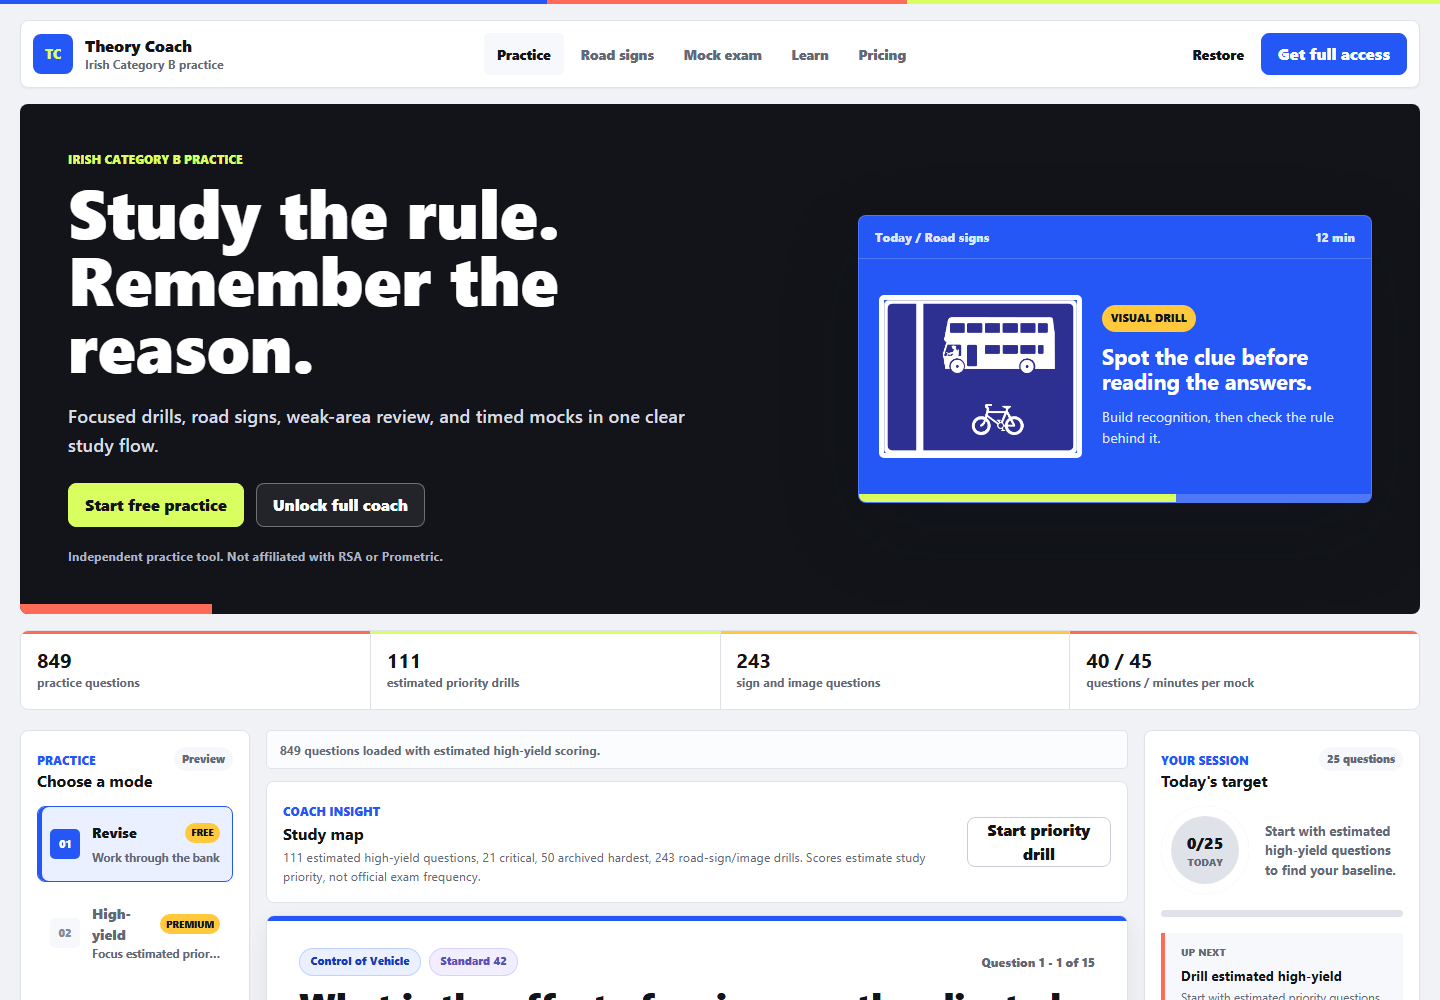
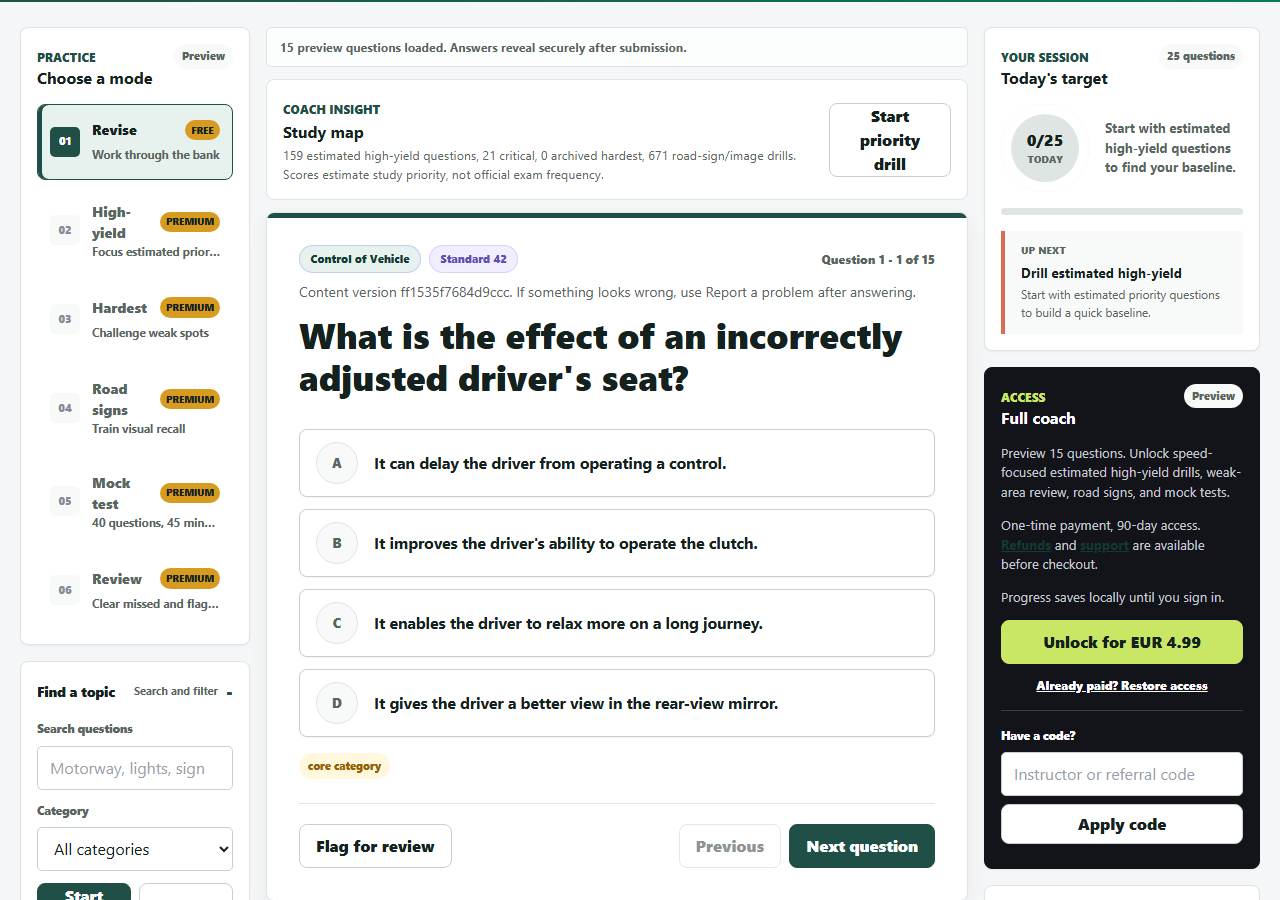
Present project as a public portfolio case study

diff --git a/README.md b/README.md
@@ -1,133 +1,176 @@
 # Irish Theory Test Coach
 
-A mobile-first Category B theory-test practice product for Irish learner drivers. It combines a focused question experience, estimated priority drills, road-sign practice, timed mock exams, weak-area review, secure paid access, and an admin content workflow.
+I built Irish Theory Test Coach as a commercial-grade learning product for Irish Category B learner drivers. It started as a question recovery project and grew into a complete study platform with protected premium content, timed mock exams, progress coaching, passwordless accounts, payments, instructor codes, and an operator dashboard.
 
-**Independent practice tool. Not affiliated with RSA or Prometric.** The project does not promise a guaranteed pass or claim official exam frequency.
+This repository is public as a portfolio case study. It shows how I approach product design, backend security, payment reliability, content operations, accessibility, SEO, and production readiness in one working system.
 
-## Live Product
+> **Independent practice tool. Not affiliated with RSA or Prometric.** The product does not guarantee a pass or claim to know official exam frequency.
 
-- **App:** [irish-theory-test-coach.vercel.app](https://irish-theory-test-coach.vercel.app)
-- **Pricing:** [View learner and instructor plans](https://irish-theory-test-coach.vercel.app/pricing)
-- **Learning hub:** [Browse study guides](https://irish-theory-test-coach.vercel.app/learn)
-- **Admin:** [Protected admin workspace](https://irish-theory-test-coach.vercel.app/admin)
-- **Sitemap:** [View the production sitemap](https://irish-theory-test-coach.vercel.app/sitemap.xml)
+## Try It
 
-![Irish Theory Test Coach desktop interface](docs/images/portfolio-desktop.png)
+- **Live product preview:** [Open Irish Theory Test Coach](https://irish-theory-test-coach-assembler-fourier-job-work.vercel.app)
+- **Learner workspace:** [Start the 15-question preview](https://irish-theory-test-coach-assembler-fourier-job-work.vercel.app/app)
+- **Pricing:** [View learner and instructor plans](https://irish-theory-test-coach-assembler-fourier-job-work.vercel.app/pricing)
+- **Learning hub:** [Browse the study guides](https://irish-theory-test-coach-assembler-fourier-job-work.vercel.app/learn)
 
-## Product Highlights
+The custom `.ie` domain is still completing registry activation. The Vercel Preview is the current review environment and intentionally uses Stripe sandbox payments.
 
-- Published question count, estimated-priority count, sign/image count, preview limit, mock settings, access duration, and active learner price are generated from the runtime product summary during build.
-- Six study modes: revise, estimated priority, hardest, road signs, mock test, and review.
-- 40-question, 45-minute mock flow with a 35-answer practice pass mark.
-- Daily target, missed-question cleanup, category accuracy, flags, and recommended next actions.
-- Mobile-first quiz UI with accessible answer states and coaching feedback.
-- Free 15-question preview and a EUR 4.99 one-time Full Study Pass with 90-day access.
-- Stripe Checkout, server-side entitlement verification, webhook endpoint, and restore-access flow.
-- Neon Postgres persistence for users, purchases, entitlements, sessions, progress, analytics, referrals, and content review.
-- Server-authorized admin dashboard for users, entitlements, revenue, referrals, questions, and generated drafts.
-- Privacy-safe first-party analytics, installable PWA support, offline shell caching, and 33 indexable public URLs.
+![Current Irish Theory Test Coach learner workspace](docs/images/portfolio-desktop.png)
 
 <p align="center">
-  <img src="docs/images/portfolio-mobile.png" width="390" alt="Irish Theory Test Coach mobile question interface">
+  <img src="docs/images/portfolio-mobile.png" width="390" alt="Current Irish Theory Test Coach mobile question experience">
 </p>
+
+## What I Built
+
+The learner experience includes:
+
+- 1,277 structured practice questions across the Category B topic bank
+- a 15-question free preview that does not expose premium answer keys
+- estimated-priority, hardest, road-sign, review, and revision modes
+- server-generated 40-question mock exams with a 45-minute timer
+- answer coaching, explanations, memory tips, flags, and missed-question review
+- category accuracy, daily targets, study streaks, and recommended next actions
+- passwordless account restoration and cross-device progress
+- installable PWA support and an offline free-preview shell
+
+The commercial and operator side includes:
+
+- Stripe Checkout for learner passes and instructor code packs
+- signed, idempotent Stripe webhook processing
+- refund, dispute, and repeat-purchase entitlement handling
+- cryptographically generated single-use instructor codes
+- server-authorized roles for owners, admins, editors, and support staff
+- users, purchases, entitlements, content QA, analytics, support, and audit-log views
+- first-party privacy-safe funnel analytics
+- static SEO pages, structured data, sitemap generation, and internal-link checks
+
+## The Engineering Work I Am Most Proud Of
+
+### Premium content is actually protected
+
+The browser receives only the free preview before authentication. Premium sessions are selected on the server, correct answers are withheld until submission, mock scoring is calculated server-side, and premium media routes require active access.
+
+### Payments survive real failure cases
+
+Checkout amounts and plan selection are server-authoritative. Webhook events are signature-verified and idempotent. The payment ledger represents completed, failed, expired, refunded, disputed, and replayed events. A won dispute restores only the entitlement revoked by that same dispute and preserves the learner's remaining access time.
+
+### Content quality is an operational workflow
+
+The content pipeline detects exact and near duplicates, answer-set variants, conflicting answers, category aliases, malformed options, unsafe HTML, weak explanations, and missing image descriptions. Editorial decisions are versioned and auditable instead of silently changing factual answers.
+
+### Build output cannot quietly drift
+
+Question counts, pricing, access duration, content versions, schema versions, and release metadata are generated from authoritative sources. Stale-build tests fail when marketing copy, public data, pricing, sitemap entries, or generated files disagree.
 
 ## Architecture
 
-```text
-public/                 Static product UI, PWA, legal pages, and SEO pages
-api/[...route].js       Consolidated Vercel Function router
-server/api/             Checkout, auth, progress, analytics, AI, and admin handlers
-lib/                    Database, auth, entitlement, referral, and environment helpers
-shared/                 Central pricing configuration
-database/schema.sql     Neon Postgres schema
-data/                   Question dataset, study reports, and local image assets
-scripts/                Build, QA, SEO, screenshot, migration, and recovery tools
-docs/                   Product, security, operations, content, and launch documentation
+```mermaid
+flowchart LR
+    Browser["Static learner app"] --> API["Vercel Functions"]
+    API --> Neon["Neon Postgres"]
+    API --> PrivateBank["Private question adapter"]
+    API --> Stripe["Stripe Checkout and webhooks"]
+    Browser --> Preview["Public 15-question package"]
+    Admin["Protected admin workspace"] --> API
+    Stripe --> Webhook["Raw-body webhook endpoint"]
+    Webhook --> Neon
 ```
 
-The current MVP deliberately uses static HTML, CSS, and JavaScript with Vercel serverless APIs. It avoids a framework migration so the app remains inexpensive to host and easy to inspect.
+```text
+public/                 Static learner app, marketing pages, PWA, and admin UI
+api/                    Vercel entrypoints and consolidated API router
+server/api/             Auth, study, payment, analytics, support, and admin handlers
+lib/                    Database, security, entitlement, content, and audit helpers
+shared/                 Authoritative pricing, product, business, and growth config
+database/               Idempotent schema and numbered migrations
+data/                   Owned question source data and media
+scripts/                Build, validation, QA, migration, evidence, and release tooling
+docs/                   Security, operations, content, design, SEO, and launch guides
+```
+
+I kept the product in modular vanilla JavaScript instead of migrating frameworks. That kept the runtime small, made the static marketing surface fast, and forced a clear boundary between browser code and privileged server behavior.
 
 ## Technology
 
-- HTML5, modern CSS, and vanilla JavaScript
-- Vercel static hosting and Functions
-- Neon Postgres via `pg`
-- Stripe Checkout and signed webhook handling
-- Secure HTTP-only magic-link sessions
-- Service worker and Web App Manifest
-- JSON-LD, sitemap, canonical metadata, and static SEO pages
-- Node.js and Python validation/build tooling
+| Area | Implementation |
+| --- | --- |
+| Frontend | Semantic HTML, modern CSS, modular vanilla JavaScript |
+| Hosting | Vercel static output and serverless Functions |
+| Database | Neon Postgres with `pg` and transactional migrations |
+| Payments | Stripe Checkout, signed webhooks, internal payment ledger |
+| Authentication | Single-use magic links and secure HTTP-only sessions |
+| Offline | Service worker, Web App Manifest, versioned preview cache |
+| Quality | Node and Python validation, browser tests, axe, visual snapshots |
+| SEO | Static HTML, canonical metadata, JSON-LD, sitemap, internal links |
 
-## Local Development
+## Verification
 
-Requirements: Node.js, npm, and Python 3.
+The current commercial Preview was tested against the exact deployed Git commit.
+
+| Check | Current result |
+| --- | --- |
+| Published dataset | 1,277 questions validated |
+| Public content exposure | 15 preview questions, no answer key |
+| Stripe sandbox matrix | 18 of 18 scenarios passed |
+| Payment reconciliation | 0 unresolved findings |
+| Accessibility | 7 states, 0 critical axe violations |
+| Visual regression | 15 deterministic mobile, tablet, and desktop screenshots |
+| Post-deploy smoke test | 11 of 11 routes and behaviors passed |
+| Dependency audit | 0 known vulnerabilities at the latest audit |
+
+Run the complete local quality gate with:
 
 ```powershell
-npm install
+npm ci
+npm run qa
+```
+
+That command validates the dataset, generated output, protected-content boundary, payment and webhook behavior, account policies, role authorization, security controls, PWA, SEO, accessibility, end-to-end flows, and visual baselines.
+
+## Run It Locally
+
+Requirements:
+
+- Node.js 22
+- npm
+- Python 3
+
+```powershell
+git clone https://github.com/Assembler-Fourier/irish-theory-test-coach.git
+cd irish-theory-test-coach
+npm ci
 npm run build
 npm run dev
 ```
 
-Open [http://localhost:5173/public/](http://localhost:5173/public/).
+Open `http://localhost:5173/public/` for the static product. Use `npx vercel dev` when testing serverless APIs locally.
 
-Copy `.env.example` to `.env.local` for local serverless work and replace placeholders locally. Never commit `.env.local`, Stripe keys, Neon credentials, webhook secrets, or email-provider keys.
+`.env.example` contains placeholders only. Real Stripe, Neon, email, session, and webhook credentials must remain in private environment variables.
 
-## Quality Gate
+## Admin And Security
 
-```powershell
-npm run qa
-```
+The admin workspace is not protected by hidden buttons. Every admin endpoint verifies the secure session and server-side role. The Preview owner flow has been tested through token consumption, `/api/me`, protected admin metrics, and logout.
 
-The full QA command validates:
+Operational documentation includes:
 
-- the published question bank and estimated-priority score breakdowns
-- JavaScript syntax and deployable data generation
-- PWA assets and cache declarations
-- sitemap, canonical metadata, structured data, and internal links
-- HTML, image, and data performance budgets
-- obvious live-secret patterns
-- preview, answer, paywall, legal, restore-access, mock, and API safety flows
+- [Threat model](docs/security/threat-model.md)
+- [Security controls](docs/security/security-controls.md)
+- [Incident response](docs/security/incident-response.md)
+- [Release runbook](docs/operations/release-runbook.md)
+- [Payment reconciliation](docs/operations/payment-reconciliation.md)
+- [Admin dashboard](docs/admin-dashboard.md)
 
-Capture the responsive visual baseline with:
+## Current Status
 
-```powershell
-npm run screenshots:ui
-```
+The full commercial build is deployed to Vercel Preview. Production promotion is deliberately held until the custom `.ie` domain leaves registry hold, HTTPS is issued, final credentials are rotated, and legal review is completed. Remaining content work is tracked openly in the generated QA reports rather than hidden behind a launch-ready claim.
 
-## Deployment
+## About Me
 
-Vercel uses:
+I am Uzair Waseem. I built this project end to end, including product design, data tooling, frontend UX, serverless APIs, database design, payments, authentication, admin operations, automated QA, and deployment.
 
-```text
-Build command: npm run build
-Output directory: public
-```
+For hiring conversations, the most useful places to start are the live Preview, the architecture above, and the security/payment modules under `server/api/` and `lib/`.
 
-Production configuration is documented in:
+## Source And Content
 
-- [`docs/release-checklist.md`](docs/release-checklist.md)
-- [`docs/secret-rotation-checklist.md`](docs/secret-rotation-checklist.md)
-- [`docs/stripe-webhook-setup.md`](docs/stripe-webhook-setup.md)
-- [`docs/admin-dashboard.md`](docs/admin-dashboard.md)
-
-The production checkout currently creates live EUR 4.99 Stripe sessions. Before accepting customer payments, configure the production `STRIPE_WEBHOOK_SECRET`, test `checkout.session.completed`, confirm the support mailbox, and rotate any credential previously shared in chat or terminal history.
-
-## Content Safety
-
-- Do not copy competitor question text.
-- Keep provenance for imported or recovered material.
-- Existing recovered questions require official cross-checking where marked.
-- AI-generated questions remain drafts until an admin reviews and approves them.
-- "High-yield" means estimated study priority, not official exam frequency.
-
-Runtime commercial summary files are generated during `npm run build`:
-
-- `public/product-summary.json`
-- `public/product-summary.js`
-- `public/release-manifest.json`
-
-Current official cross-check sources include [TheoryTest.ie](https://theorytest.ie/), its [revision material](https://theorytest.ie/revision-material/), and the RSA [Rules of the Road](https://www.rsa.ie/services/learner-drivers/resources/rules-of-the-road).
-
-## Repository Notes
-
-Durable engineering and product rules live in [`AGENTS.md`](AGENTS.md). The detailed UI and release documentation is under [`docs/`](docs/).
+The repository is available for portfolio review. Unless a separate licence says otherwise, no licence is granted to reuse the question bank, images, explanations, branding, or other content assets.

diff --git a/docs/admin-dashboard.md b/docs/admin-dashboard.md
@@ -1,12 +1,12 @@
 # Admin Dashboard
 
-The admin dashboard lives at:
+The admin dashboard is available at:
 
 ```text
-/admin.html
+/admin
 ```
 
-Every admin API verifies the httpOnly session cookie and checks `users.role = 'admin'` server-side. Frontend checks are display-only and must never be treated as authorization.
+Every admin API verifies the HTTP-only session cookie and checks the user's server-side role. Supported roles are `owner`, `admin`, `content_editor`, and `support`, with permissions restricted by operation. Frontend checks are display-only and must never be treated as authorization.
 
 ## Apply The Migration
 
@@ -23,22 +23,25 @@ This adds:
 - `entitlements.revoked_at`
 - `admin_audit_log`
 
-## Promote The First Admin In Neon
+## Configure The First Owner In Neon
 
-1. Log in once through magic-link login using the email that should become admin. This creates or confirms the `users` row.
-2. Open the Neon SQL editor.
-3. Run this statement with your admin email:
+1. Configure `EMAIL_FROM` and `EMAIL_PROVIDER_API_KEY` so the passwordless login link can be delivered through Resend.
+2. Log in once using the email that should own the workspace. This creates or confirms the `users` row.
+3. Open the Neon SQL editor.
+4. Run this statement with the owner's email:
 
 ```sql
 insert into users (email, role)
-values ('you@example.com', 'admin')
+values ('you@example.com', 'owner')
 on conflict (email) do update
-set role = 'admin',
+set role = 'owner',
     updated_at = now();
 ```
 
-4. Log out and log back in so the session reads the updated role.
-5. Open `/admin.html`.
+5. Log out and log back in so the session reads the updated role.
+6. Open `/admin`.
+
+The commercial Preview owner flow was verified through one-time token consumption, `/api/me`, `/api/admin/stats`, and logout. A configured email provider is still required for ordinary inbox delivery.
 
 Do not expose SQL connection strings, session cookies, magic links, or provider keys in screenshots, docs, or chat.
 
